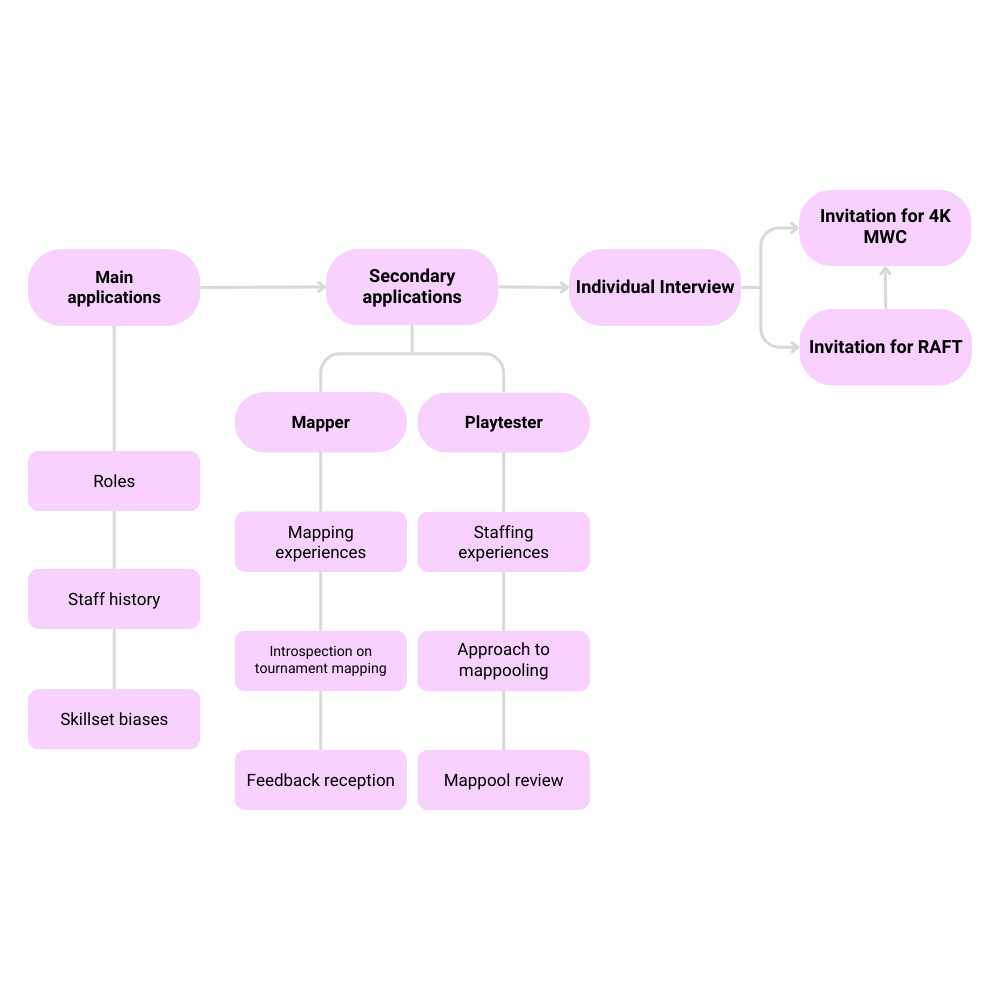
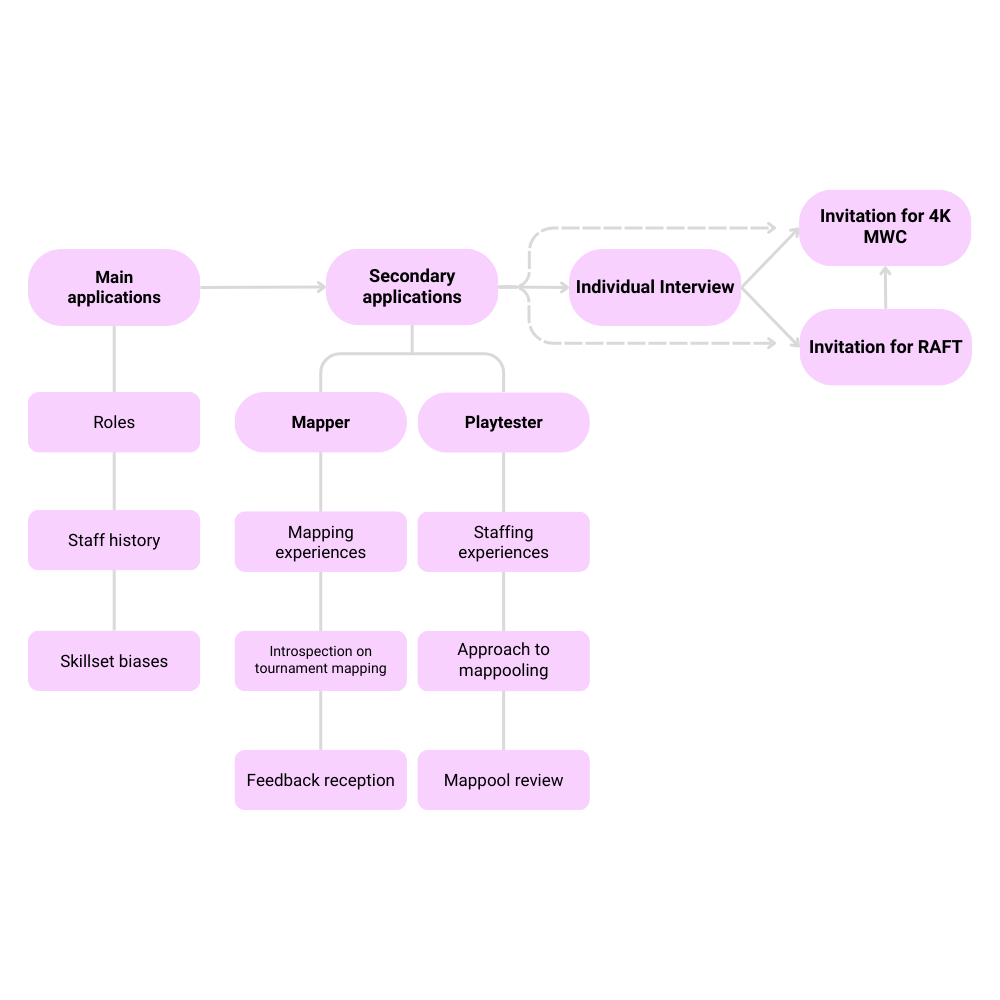
expand a bit more on the recruitment process, update flowchart

Changed region(s): [[0.031, 0.372, 0.217, 0.775], [0.744, 0.217, 0.806, 0.341], [0.775, 0.341, 0.806, 0.372]]

diff --git a/news/2024/2024-02-27-osumania-4k-world-cup-2024-mapperplaytester-applications.md b/news/2024/2024-02-27-osumania-4k-world-cup-2024-mapperplaytester-applications.md
@@ -16,14 +16,22 @@ Playtesters will be responsible for playing and giving feedback for a plethora o
 
 Please note that if you are accepted into either team, you will not be eligible to participate as a player in the corresponding tournament.
 
-### Recruitment overview
+### Recruitment process
 
 ![](/wiki/shared/news/2024-02-27-osumania-4k-world-cup-2024-mapperplaytester-applications/mwc4k2024-apps-flowchart.png)
 
-Prospective helpers will have to answer specific questions created by the mappooling team meant to gauge the participant's compatibility with the existing mappooling methodologies and procedures. Please note that not all participants will receive invitations to the second and/or third stages.
+All prospective helpers will have to answer the first with form, which contains questions aimed at gauging whether or not they're a good fit for the current team.
+
+Participants that clear the first stage will have to answer another form, this time with even more specific questions meant to gauge their experience, skill, and methodology on various aspects of mapping and/or playtesting. After this stage, one of four things may happen:
+  - The candidate is invited to staff for MWC 4K
+  - The candidate is invited to an individual interview before receiving an invitation
+  - The candidate is invited to staff for RAFT
+  - The candidate is not invited to either team
+
+Please note that not all participants will receive invitations to the second and/or third stages, and may not receive invites even if they go through all steps. 
 
 
-If you are considering applying but do not feel like you have the necessary experience, we urge you to still apply – the 4K MWC mappooling team alongside the osu!mania Tourney Central Council has developed a controlled-environment staff mentorship program under the Rapid Fire Tournament Series project, which will give mappers and playtesters with less tournament staffing experience but high potential and interest an opportunity to demonstrate their ability before being fully accepted into the 4K MWC mappooling team.
+If you are considering applying but do not feel like you have the necessary experience, we urge you to still apply – the 4K MWC mappooling team alongside the osu!mania Tourney Central Council has developed a controlled-environment staff mentorship program under the Rapid Fire Tournament Series project (RAFT), which will give mappers and playtesters with less tournament staffing experience but high potential and interest an opportunity to demonstrate their ability before being fully accepted into the 4K MWC mappooling team.
 
 ---
 
